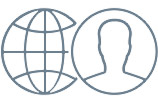
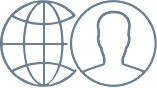
Fix for image margin

diff --git a/templates/index.html b/templates/index.html
@@ -423,7 +423,7 @@
 
 					<div class="info">
 
-						<img src="{{ STATIC_URL }}images/homebody/img25.jpg" alt="outline globe and head" width="158" height="106" />
+						<img src="{{ STATIC_URL }}images/homebody/img25.jpg" alt="outline globe and head" width="157" height="88" />
 
 						<h2>Build a volunteer community</h2>
 

diff --git a/media/css/homebody.css b/media/css/homebody.css
@@ -646,6 +646,7 @@ div#new-homepage {
 	float:left;
 	text-align:center;
 	width:460px;
+        padding-top: 15px;
 	margin:0 0  10px 114px;
 }
 #new-homepage .block-hold .info:first-child{
